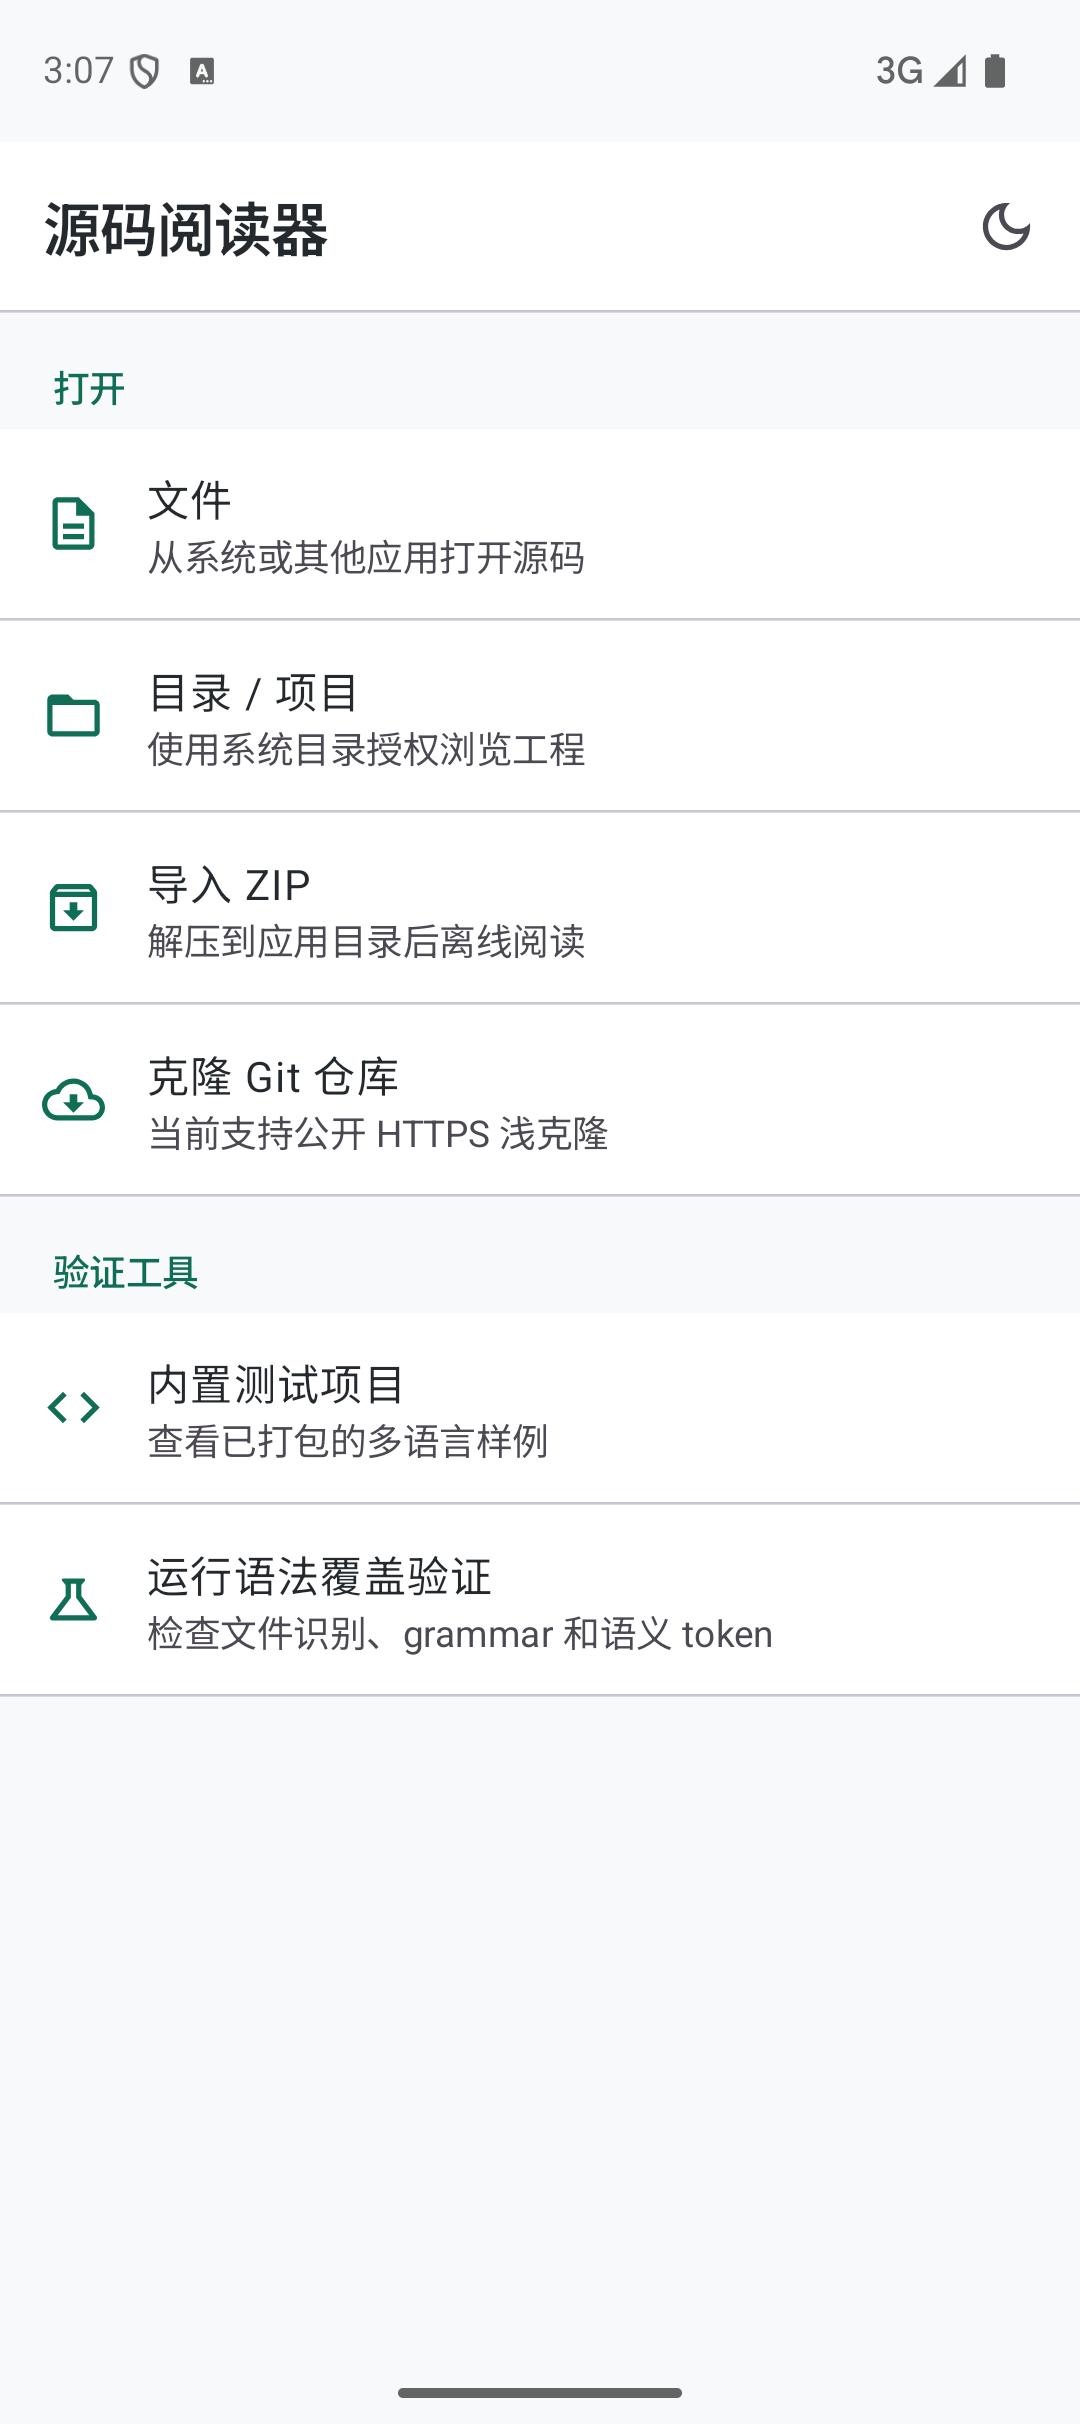
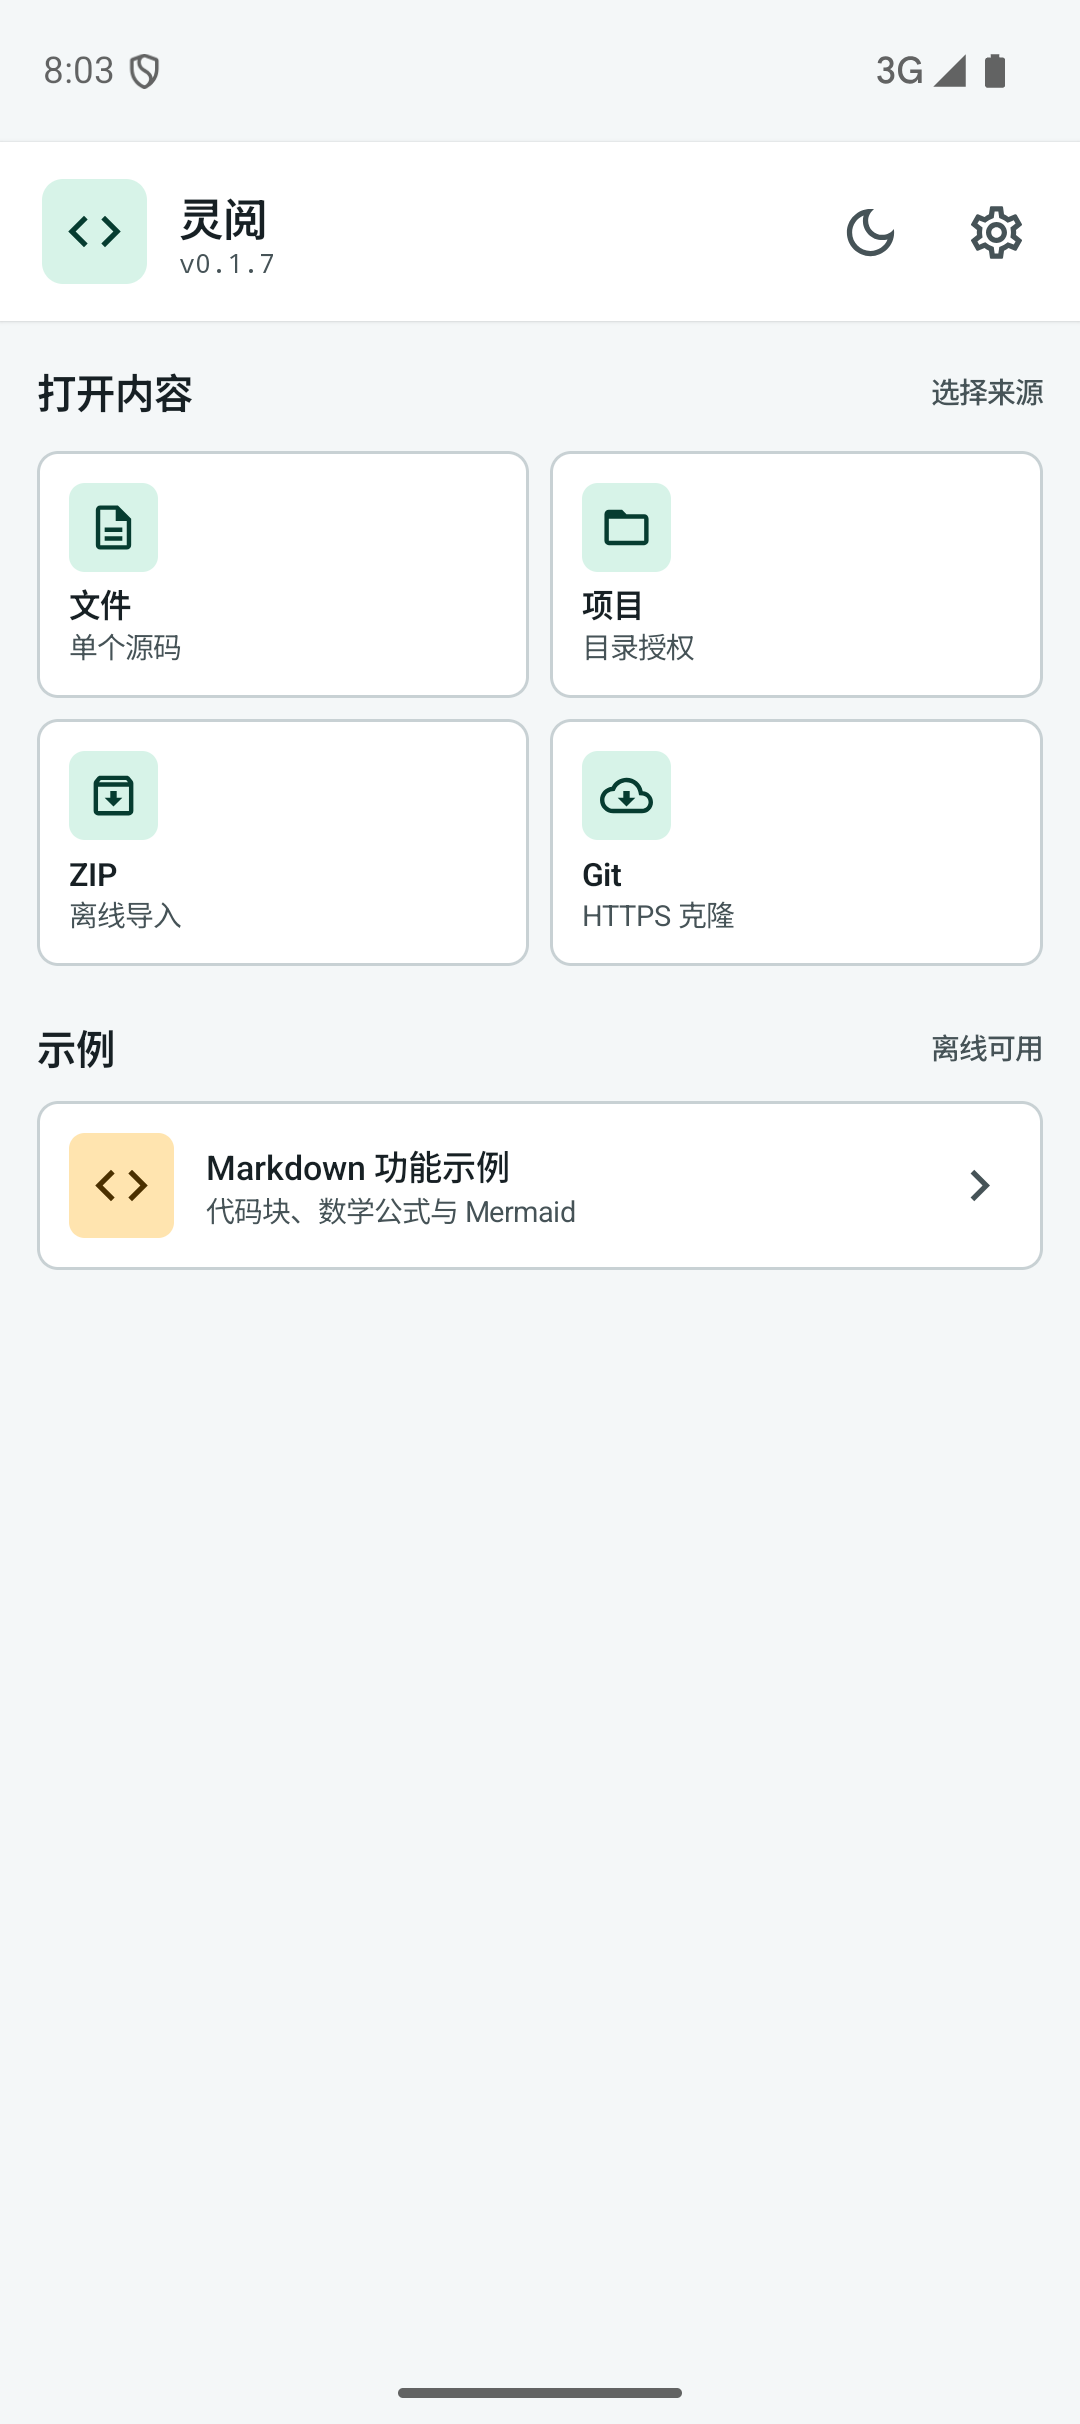
更名为灵阅并发布 0.1.7

diff --git a/app/src/main/java/com/lonnnnnng/codereader/ui/ReaderApp.kt b/app/src/main/java/com/lonnnnnng/codereader/ui/ReaderApp.kt
@@ -168,7 +168,7 @@ fun ReaderApp(viewModel: ReaderViewModel) {
             runCatching { startUpdateInstaller(apk) }
                 .onFailure { viewModel.reportUpdateMessage("无法打开系统安装器：${it.message ?: it.javaClass.simpleName}") }
         } else {
-            viewModel.reportUpdateMessage("需要允许源码阅读器安装更新")
+            viewModel.reportUpdateMessage("需要允许灵阅安装更新")
         }
     }
     val installUpdate: () -> Unit = {
@@ -312,7 +312,7 @@ fun ReaderApp(viewModel: ReaderViewModel) {
             AlertDialog(
                 onDismissRequest = { showExitConfirmation = false },
                 modifier = Modifier.testTag("exit-confirmation-dialog"),
-                title = { Text("退出源码阅读器？") },
+                title = { Text("退出灵阅？") },
                 text = { Text("未保存的修改不会自动保存，确定要退出应用吗？") },
                 confirmButton = {
                     TextButton(
@@ -364,7 +364,7 @@ private fun HomeScreen(
 ) {
     Column(modifier = Modifier.fillMaxSize().background(MaterialTheme.colorScheme.background)) {
         ProductHeader(
-            title = "源码阅读器",
+            title = "灵阅",
             subtitle = "v${BuildConfig.VERSION_NAME}",
             actions = {
                 ThemeToggleButton(state.theme.isDark, onToggleTheme)

diff --git a/app/src/androidTest/java/com/lonnnnnng/codereader/SettingsInstrumentedTest.kt b/app/src/androidTest/java/com/lonnnnnng/codereader/SettingsInstrumentedTest.kt
@@ -134,10 +134,12 @@ class SettingsInstrumentedTest {
 
     @Test
     fun exitApplicationRequiresConfirmation() {
+        composeRule.onNodeWithText("灵阅").assertIsDisplayed()
         composeRule.activityRule.scenario.onActivity { activity ->
             activity.onBackPressedDispatcher.onBackPressed()
         }
         composeRule.onNodeWithTag("exit-confirmation-dialog").assertIsDisplayed()
+        composeRule.onNodeWithText("退出灵阅？").assertIsDisplayed()
         composeRule.onNodeWithText("未保存的修改不会自动保存", substring = true).assertIsDisplayed()
 
         composeRule.onNodeWithTag("exit-cancel-button").performClick()

diff --git a/app/src/androidTest/java/com/lonnnnnng/codereader/update/AppReleaseParserInstrumentedTest.kt b/app/src/androidTest/java/com/lonnnnnng/codereader/update/AppReleaseParserInstrumentedTest.kt
@@ -34,7 +34,7 @@ class AppReleaseParserInstrumentedTest {
         """
         {
           "tag_name": "v0.1.4",
-          "name": "源码阅读器 v0.1.4",
+          "name": "灵阅 v0.1.4",
           "body": "增加在线更新",
           "html_url": "https://github.com/lonnnnnng/android-code-reader/releases/tag/v0.1.4",
           "assets": [

diff --git a/docs/模拟器验证报告.md b/docs/模拟器验证报告.md
@@ -1,4 +1,4 @@
-# 源码阅读器模拟器验证报告
+# 灵阅模拟器验证报告
 
 > 验证时间：2026-07-27 CST  
 > 验证设备：`Pixel_9` AVD，Android 15/API 35；本轮使用本机 ADB 传输 `127.0.0.1:5555`，并通过 `ro.boot.qemu.avd_name=Pixel_9` 核验  
@@ -40,7 +40,7 @@
 
 最终 `lintDebug`、19 项 JVM 单元测试、Debug APK、AndroidTest APK 和 R8 Release APK 均构建成功。Pixel_9 模拟器上的 16 项 instrumentation 测试全部通过，78/78 语法覆盖通过，crash buffer 为空。
 
-`v0.1.6 (7)` 是维护版本：相对 `v0.1.5 (6)` 没有新增应用功能代码，主要递增正式版本并纳入上一版在线升级的完整验证记录。本轮仍重新完成构建、正式签名、`v0.1.5 -> v0.1.6` 原地安装、完整 instrumentation 和启动检查。
+`v0.1.7 (8)` 完成中文品牌更名：系统应用标签、首页标题、退出确认、更新授权提示、README 和内置 Markdown 示例统一使用“灵阅”；应用 ID、GitHub 仓库和 APK 命名协议保持不变，继续兼容既有安装与在线更新。本轮重新完成构建、正式签名、`v0.1.6 -> v0.1.7` 原地安装、完整 instrumentation 和启动检查。
 
 ## 文件类型覆盖
 
@@ -198,7 +198,7 @@ lastanr: <no ANR has occurred since boot>
 
 - 首页右上角齿轮按钮先进入一级设置分类页，页面只显示“阅读与显示 / 应用外观 / 关于与更新”三个入口，不再平铺全部控件。
 - 点击分类进入对应二级页；顶部返回与系统侧边返回都会先回到一级设置页，再次侧边返回回到首页。
-- 模拟器启用手势导航（`navigation_mode=2`）后，真实左边缘滑动可按“二级设置 → 一级设置 → 首页”逐级返回；首页再次滑动显示“退出源码阅读器？”确认框。
+- 模拟器启用手势导航（`navigation_mode=2`）后，真实左边缘滑动可按“二级设置 → 一级设置 → 首页”逐级返回；首页再次滑动显示“退出灵阅？”确认框。
 - 点击“取消”后首页保持可用；再次侧滑并点击“退出应用”后 `MainActivity` 结束、Launcher 恢复到前台。弹窗明确提示未保存修改不会自动保存。
 - “阅读与显示”和“应用外观”保留固定预览，修改选项时预览区立即刷新；“关于与更新”只展示版本管理，不占用空间显示无关预览。
 - 11-24 sp 字号、四种阅读背景、三种整体配色和两种明暗模式均可选择并持久化。
@@ -208,8 +208,8 @@ lastanr: <no ANR has occurred since boot>
 
 ### 在线更新
 
-- 设置页“关于与更新 / 应用更新”显示当前版本 `v0.1.6`。
-- 发布后点击“检查更新”真实请求 `lonnnnnng/android-code-reader` 的公开 GitHub Latest Release，并确认正式签名包返回“当前已是最新版本 v0.1.6”。
+- 设置页“关于与更新 / 应用更新”显示当前版本 `v0.1.7`。
+- 本轮发布前真实请求 `lonnnnnng/android-code-reader` 的公开 GitHub Latest Release；当远端仍为 `v0.1.6` 时，当前 `v0.1.7` 正确返回已是最新版本。发布后将再次复核远端 Latest Release。
 - 下载只接受 `AndroidCodeReader-vX.Y.Z.apk`，使用 `.part` 临时文件，并限制响应与安装包大小；失败不会留下半包。
 - 安装前依次校验 Release SHA-256、实际文件大小、应用 ID、`versionName`、递增的 `versionCode` 和当前签名证书集合。
 - Android 8 及以上未授权时会进入当前应用的“允许安装未知应用”设置；授权返回后再由系统安装器继续，应用不执行静默安装。
@@ -291,9 +291,9 @@ lastanr: <no ANR has occurred since boot>
 ## 构建产物
 
 ```text
-文件：AndroidCodeReader-v0.1.6.apk
+文件：AndroidCodeReader-v0.1.7.apk
 大小：11,070,831 bytes（约 10.6 MiB）
-SHA-256：582d4add04eb34fcb34f924a831afefdae6139acaf5ab3ec9d75a4a4ebc4e2e6
+SHA-256：fbfeb757c57c706475d19b89e67617488ca7a89935938318db08205b0449dabb
 ```
 
 ## 已修复问题

diff --git a/app/src/debug/assets/samples/README.md b/app/src/debug/assets/samples/README.md
@@ -1,6 +1,6 @@
 # Markdown 综合能力验证
 
-> 这份文档用于验证源码阅读器的常用 Markdown、代码高亮、数学公式和 Mermaid 流程图。
+> 这份文档用于验证灵阅的常用 Markdown、代码高亮、数学公式和 Mermaid 流程图。
 
 ## 文本格式
 

diff --git a/app/src/main/assets/examples/Markdown示例.md b/app/src/main/assets/examples/Markdown示例.md
@@ -1,6 +1,6 @@
 # Markdown 功能示例
 
-这份文档展示源码阅读器支持的常用 Markdown 能力，所有内容均可离线渲染。
+这份文档展示灵阅支持的常用 Markdown 能力，所有内容均可离线渲染。
 
 ## 文本与列表
 

diff --git a/README.md b/README.md
@@ -1,4 +1,4 @@
-# 源码阅读器
+# 灵阅
 
 原生 Android 源码与 Markdown 阅读器，默认只读，可按文件切换编辑并保存。
 
